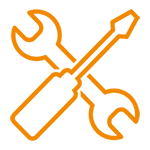
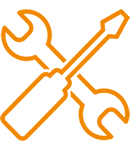
Toolkit section has been added.

diff --git a/templates/index.html b/templates/index.html
@@ -27,7 +27,7 @@
     </div>
 
     <div id="titles">
-      <span class="title">Projects</span> <span class="divider">|</span> <span class="title">Employment</span> <span class="divider">|</span>|<span class="title">Toolkit</span>
+      <span class="title">Projects</span> <span class="divider">|</span> <span class="title">Employment</span> <span class="divider">|</span>|<span class="title">Toolkit</span><span class="divider"> | </span><span class="title">Contact</span>
     </div>
 
     <div id="introduction_container">
@@ -58,6 +58,41 @@
             In enim nulla, semper ac velit eget, ullamcorper sollicitudin mauris. Maecenas ut finibus magna. Phasellus porttitor in ante non blandit. Maecenas eleifend, est quis ullamcorper pulvinar, felis sem blandit dolor, sit amet consequat felis sem eget dui. Pellentesque mauris ex, scelerisque finibus convallis vitae, imperdiet quis erat. Etiam commodo varius elit. Nunc sed varius est, ut varius elit.
           </p>
         </div>
+    </div>
+
+
+    <div id="employment">
+      <div id="employment_container">
+        <div id="employment_header">
+          <img class="icon" src="{{ url_for('static', filename='img/tie.png') }}"> <h3 class="title">Employment</h3>
+        </div>
+        <p class="introduction_text">
+          Lorem ipsum dolor sit amet, consectetur adipiscing elit. Pellentesque sed orci convallis, malesuada arcu id, sollicitudin ex. Quisque convallis est id ex efficitur cursus. Nulla ut justo dapibus, ultricies nisl sed, congue tellus. Suspendisse condimentum enim mauris, id pellentesque magna efficitur a. Sed congue tellus nec elementum sagittis. Aliquam sit amet massa urna. Vestibulum risus velit, tincidunt sit amet purus sed, suscipit pulvinar odio. Nullam convallis eros sit amet consequat pretium.
+        </p>
+        <p class="introduction_text">
+          Cras sed mattis erat. Donec maximus mauris eu est dignissim, a condimentum mauris cursus. Donec elementum elementum nisl. Nunc sed molestie turpis. Donec lobortis, lectus eget tempor dapibus, ex magna pulvinar nisi, id lacinia arcu nunc a nibh. Fusce lectus libero, consequat vel metus nec, convallis tempus quam. Mauris mauris purus, condimentum non ex quis, laoreet suscipit magna. Phasellus sagittis consectetur ex sit amet elementum. Nullam dapibus fermentum est, ut varius ipsum viverra nec. In hac habitasse platea dictumst. Maecenas id tellus mauris. In egestas non mi vel tristique.
+        </p>
+        <p class="introduction_text">
+          In enim nulla, semper ac velit eget, ullamcorper sollicitudin mauris. Maecenas ut finibus magna. Phasellus porttitor in ante non blandit. Maecenas eleifend, est quis ullamcorper pulvinar, felis sem blandit dolor, sit amet consequat felis sem eget dui. Pellentesque mauris ex, scelerisque finibus convallis vitae, imperdiet quis erat. Etiam commodo varius elit. Nunc sed varius est, ut varius elit.
+        </p>
+      </div>
+    </div>
+
+    <div id="toolkit">
+      <div id="toolkit_container">
+        <div id="toolkit_header">
+          <img class="icon" src="{{ url_for('static', filename='img/tools.png') }}"> <h3 class="title">Toolkit</h3>
+        </div>
+        <p class="introduction_text">
+          Lorem ipsum dolor sit amet, consectetur adipiscing elit. Pellentesque sed orci convallis, malesuada arcu id, sollicitudin ex. Quisque convallis est id ex efficitur cursus. Nulla ut justo dapibus, ultricies nisl sed, congue tellus. Suspendisse condimentum enim mauris, id pellentesque magna efficitur a. Sed congue tellus nec elementum sagittis. Aliquam sit amet massa urna. Vestibulum risus velit, tincidunt sit amet purus sed, suscipit pulvinar odio. Nullam convallis eros sit amet consequat pretium.
+        </p>
+        <p class="introduction_text">
+          Cras sed mattis erat. Donec maximus mauris eu est dignissim, a condimentum mauris cursus. Donec elementum elementum nisl. Nunc sed molestie turpis. Donec lobortis, lectus eget tempor dapibus, ex magna pulvinar nisi, id lacinia arcu nunc a nibh. Fusce lectus libero, consequat vel metus nec, convallis tempus quam. Mauris mauris purus, condimentum non ex quis, laoreet suscipit magna. Phasellus sagittis consectetur ex sit amet elementum. Nullam dapibus fermentum est, ut varius ipsum viverra nec. In hac habitasse platea dictumst. Maecenas id tellus mauris. In egestas non mi vel tristique.
+        </p>
+        <p class="introduction_text">
+          In enim nulla, semper ac velit eget, ullamcorper sollicitudin mauris. Maecenas ut finibus magna. Phasellus porttitor in ante non blandit. Maecenas eleifend, est quis ullamcorper pulvinar, felis sem blandit dolor, sit amet consequat felis sem eget dui. Pellentesque mauris ex, scelerisque finibus convallis vitae, imperdiet quis erat. Etiam commodo varius elit. Nunc sed varius est, ut varius elit.
+        </p>
+      </div>
     </div>
 
 

diff --git a/static/css/main.css b/static/css/main.css
@@ -47,6 +47,16 @@ html {
     margin-top: 20px;
 }
 
+#employment {
+    background-color: #080808;
+    height: 100vh;
+    width: 100%;
+
+    display: flex;
+    align-items: center;
+    justify-content: center;
+}
+
 #footer_container {
     display: flex;
     flex-direction: row;
@@ -67,7 +77,7 @@ html {
     flex-direction: row;
 }
 
-#introduction_container, #projects_container {
+#introduction_container, #projects_container, #employment_container, #toolkit_container {
     max-width: 900px;
     padding: 20px;
 }
@@ -104,7 +114,7 @@ html {
     align-items: flex-start;
 }
 
-#projects_header {
+#projects_header, #employment_header, #toolkit_header {
     display: flex;
     align-items: flex-end;
     margin-bottom: 20px;
@@ -113,6 +123,19 @@ html {
 #titles {
     text-align: center;
     letter-spacing: 0.2em;
+}
+
+#toolkit {
+    background-image: url( ../img/skillset.png );
+    height: 100vh;
+    width: 100%;
+    background-repeat: no-repeat;
+    background-attachment: fixed;
+    background-size: cover;
+
+    display: flex;
+    align-items: center;
+    justify-content: center;
 }
 
 .divider, .title {
